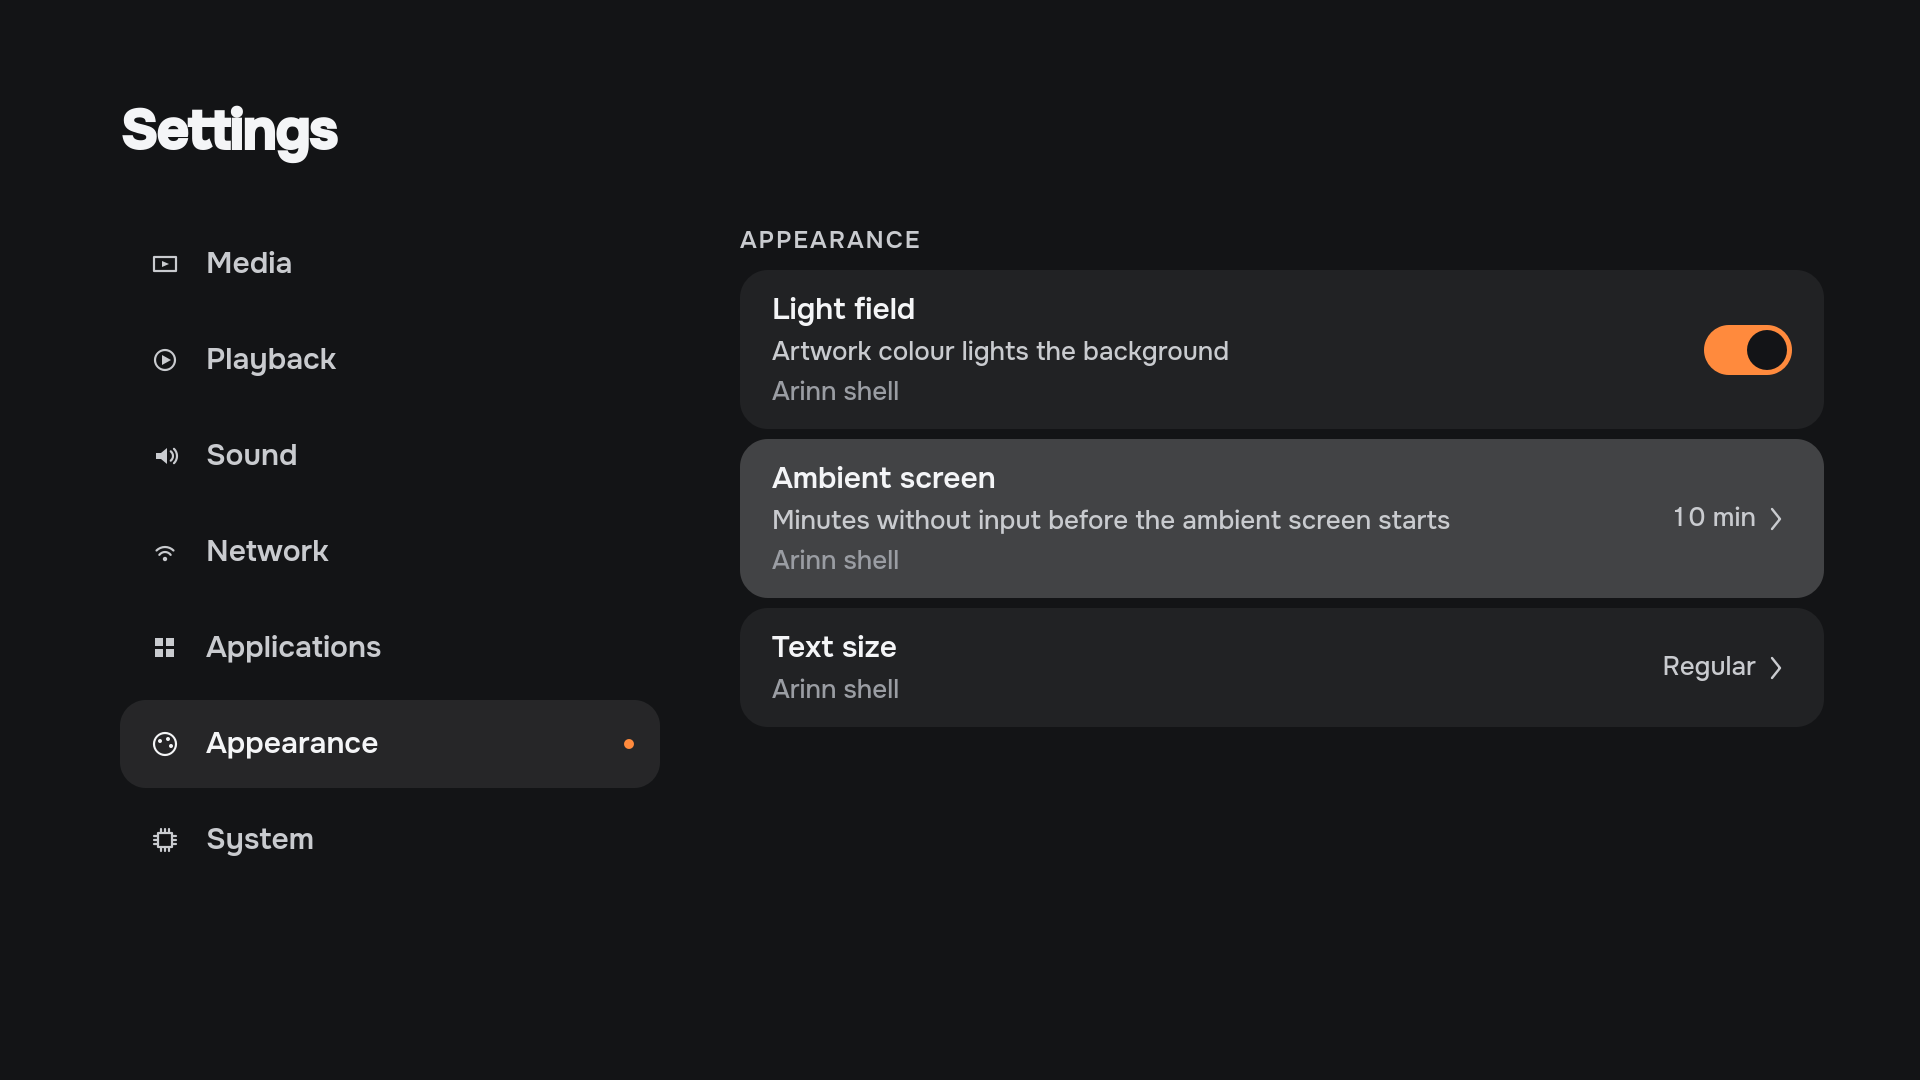
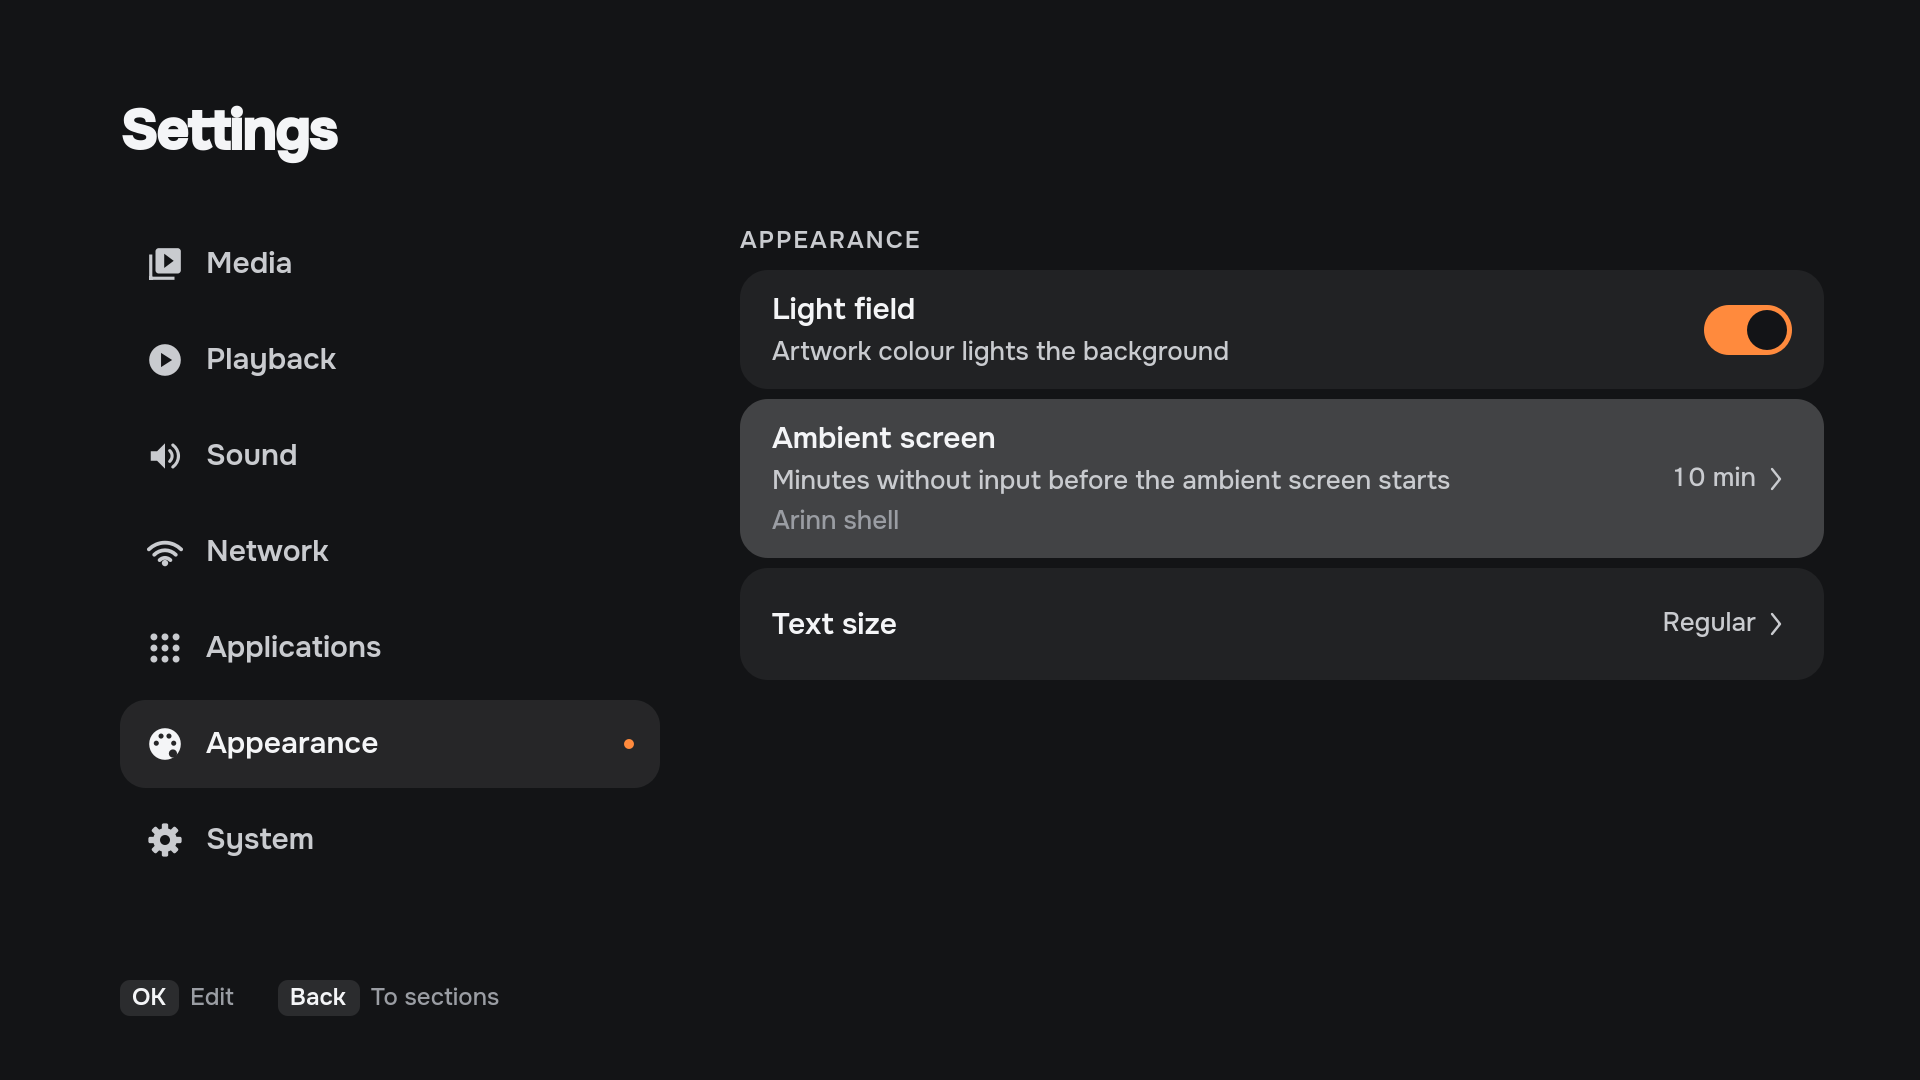
Refresh the README, website and handbook showcase frames (#651)
Recapture home-populated, browser-list, settings-rows and
library-folders-list from master (Qt 6.8.2, offscreen, software
renderer) so the public images show #564, #565, #566 and the #641
centred Settings titles. Update captions and showcase provenance.

Closes #644. Refs G-5.1.

Claude-Session: https://claude.ai/code/session_01VrE6AW19jzWQia6hqjuWub

diff --git a/docs/site/index.html b/docs/site/index.html
@@ -53,8 +53,8 @@
       <div class="section-heading"><div><p class="eyebrow">A CLOSER LOOK</p><h2 id="screenshots-title">Space for what<br>you love to do.</h2></div><p>Four screens from the current Qt interface.<br>Select a screenshot to explore it in full.</p></div>
       <div class="gallery-grid">
         <figure class="screenshot-card"><a href="assets/screenshots/home.png" data-screenshot data-title="Home" data-caption="Continue cards, fictional favorite tiles and visible remote-control focus."><img src="assets/screenshots/home.png" alt="Arinn Home with fictional Continue cards and favorite tiles" width="1920" height="1080" loading="lazy"><span class="enlarge" aria-hidden="true">↗</span></a><figcaption><div><span class="screen-number">01</span><h3>Home</h3></div><p>Your starting point. Your way back.</p></figcaption></figure>
-        <figure class="screenshot-card"><a href="assets/screenshots/open-services.png" data-screenshot data-title="Open services" data-caption="Fictional browser services with active and sound states, bookmark actions and close controls."><img src="assets/screenshots/open-services.png" alt="Arinn Open services with fictional services and bookmark controls" width="1920" height="1080" loading="lazy"><span class="enlarge" aria-hidden="true">↗</span></a><figcaption><div><span class="screen-number">02</span><h3>Open services</h3></div><p>Your open pages, within reach.</p></figcaption></figure>
-        <figure class="screenshot-card"><a href="assets/screenshots/settings.png" data-screenshot data-title="Settings" data-caption="Appearance controls for the light field, ambient timeout and text size, with source lines."><img src="assets/screenshots/settings.png" alt="Arinn Appearance settings with light field, ambient timeout and text size" width="1920" height="1080" loading="lazy"><span class="enlarge" aria-hidden="true">↗</span></a><figcaption><div><span class="screen-number">03</span><h3>Settings</h3></div><p>Make room for your preferences.</p></figcaption></figure>
+        <figure class="screenshot-card"><a href="assets/screenshots/open-services.png" data-screenshot data-title="Open services" data-caption="Fictional browser services with on-screen and sound marks, bookmark and close controls, and the Site or search button."><img src="assets/screenshots/open-services.png" alt="Arinn Open services with fictional services and bookmark controls" width="1920" height="1080" loading="lazy"><span class="enlarge" aria-hidden="true">↗</span></a><figcaption><div><span class="screen-number">02</span><h3>Open services</h3></div><p>Your open pages, within reach.</p></figcaption></figure>
+        <figure class="screenshot-card"><a href="assets/screenshots/settings.png" data-screenshot data-title="Settings" data-caption="Appearance controls for the light field, ambient timeout and text size; the focused row shows its source."><img src="assets/screenshots/settings.png" alt="Arinn Appearance settings with light field, ambient timeout and text size" width="1920" height="1080" loading="lazy"><span class="enlarge" aria-hidden="true">↗</span></a><figcaption><div><span class="screen-number">03</span><h3>Settings</h3></div><p>Make room for your preferences.</p></figcaption></figure>
         <figure class="screenshot-card"><a href="assets/screenshots/library-folders.png" data-screenshot data-title="Library folders" data-caption="The current inline folder list with two fictional paths and add/remove actions; not a graphical picker."><img src="assets/screenshots/library-folders.png" alt="Arinn library folder settings with two fictional paths and add/remove actions" width="1920" height="1080" loading="lazy"><span class="enlarge" aria-hidden="true">↗</span></a><figcaption><div><span class="screen-number">04</span><h3>Library folders</h3></div><p>Keep your library connected.</p></figcaption></figure>
       </div>
       <p class="gallery-provenance">Captured from the current Qt/QML views through tests/ui/visual at 1920 × 1080, with fictional services, neutral monograms, placeholder artwork and a fixed clock. Your installed apps, library and settings will look different. <a href="https://github.com/LimeBeck/arinn/blob/master/docs/design/showcase/README.md">Screenshot provenance <span aria-hidden="true">↗</span></a></p>

diff --git a/docs/design/showcase/README.md b/docs/design/showcase/README.md
@@ -9,18 +9,20 @@ gallery is not a screen renderer. The wider, earlier comparison baseline lives
 in [current-ui](../current-ui/README.md); historical handoff/archive assets are
 not changed by this refresh.
 
-Captured on 2026-10-27 from source commit `7782954` with Qt 6.12.0,
-the offscreen platform and the software Qt Quick renderer, at 1920 × 1080.
+Captured on 2026-11-01 from `master` commit `5d31b16` with Qt 6.8.2 on
+Debian trixie, the offscreen platform and the software Qt Quick renderer, at
+1920 × 1080 ([#644](https://github.com/LimeBeck/arinn/issues/644)).
 Only the four states selected in [#569](https://github.com/LimeBeck/arinn/issues/569)
 are published. The owner accepted Qt 6.8 or later; a Qt 6.10-only environment is
-not required. The production views and fixtures include the #572 icon/clock
-fixes and the #574 Home favorite ellipsis fix.
+not required. The frames include the #564 focus-only Home menu plate, the #565
+drawn on-screen and sound marks and Site or search button, the #566 focus-only
+Settings source line and the #641 centred Settings titles.
 
 | File | Manifest state | Contents |
 | --- | --- | --- |
-| `home.png` | `home-populated` | Continue cards, fictional favorite tiles and focused Home mark |
-| `open-services.png` | `browser-list` | Fictional .example services, drawn bookmark icons, active/sound states |
-| `settings.png` | `settings-rows` | Appearance: light field, ambient timeout, text size and source lines |
+| `home.png` | `home-populated` | Continue cards, fictional favorite tiles and the focused Home menu button with its plate |
+| `open-services.png` | `browser-list` | Fictional .example services with on-screen and sound marks, bookmark and close controls and the Site or search button |
+| `settings.png` | `settings-rows` | Appearance: light field, ambient timeout and text size; only the focused row shows its source line |
 | `library-folders.png` | `library-folders-list` | Inline fictional folder paths with Add path / Remove controls |
 
 The capture uses a fixed 22:57 clock, synthetic titles and paths, neutral service

diff --git a/README.ru.md b/README.ru.md
@@ -45,7 +45,7 @@ Arinn (древнескандинавское «очаг») объединяет
 <details>
 <summary>Открытые сервисы</summary>
 
-Окна браузера, текущий сервис и состояние звука. Кнопки закладок рисуются независимо от установленных шрифтов иконок.
+Окна браузера: пометки «на экране» и «звук» рядом с адресом, кнопки закладки и закрытия, кнопка «Сайт или поиск». Значки рисуются независимо от установленных шрифтов иконок.
 
 ![Открытые сервисы Arinn с вымышленными сайтами, закладками и кнопками закрытия](docs/design/showcase/open-services.png)
 
@@ -54,7 +54,7 @@ Arinn (древнескандинавское «очаг») объединяет
 <details>
 <summary>Настройки</summary>
 
-Параметры оформления: световой фон, время до заставки и размер текста, со строками источников.
+Параметры оформления: световой фон, время до заставки и размер текста. У строки в фокусе видно, какой компонент её задаёт.
 
 ![Настройки оформления Arinn: световой фон, время до заставки и размер текста](docs/design/showcase/settings.png)
 

diff --git a/README.md b/README.md
@@ -57,7 +57,7 @@ These four captures come from the current Qt/QML views through `tests/ui/visual`
 <details>
 <summary>Open services</summary>
 
-Managed browser activities, with the active service and sound state marked. Bookmark actions are drawn icons, independent of installed icon fonts.
+Managed browser activities, with the on-screen and sound marks next to each address, bookmark and close actions, and the Site or search button. The icons are drawn, independent of installed icon fonts.
 
 ![Arinn Open services with fictional services, bookmark actions and close controls](docs/design/showcase/open-services.png)
 
@@ -66,7 +66,7 @@ Managed browser activities, with the active service and sound state marked. Book
 <details>
 <summary>Settings</summary>
 
-Appearance settings for the light field, ambient timeout and text size, with their source lines.
+Appearance settings for the light field, ambient timeout and text size. The focused row also shows which component provides it.
 
 ![Arinn Appearance settings for the light field, ambient timeout and text size](docs/design/showcase/settings.png)
 

diff --git a/changes/changed/644-showcase-refresh.md b/changes/changed/644-showcase-refresh.md
@@ -1,0 +1,1 @@
+- The README, website and handbook screenshots show the current shell: the focus-only Home menu plate, the drawn on-screen and sound marks in Open services and the focus-only source line in Settings ([#644](https://github.com/LimeBeck/arinn/issues/644)).
